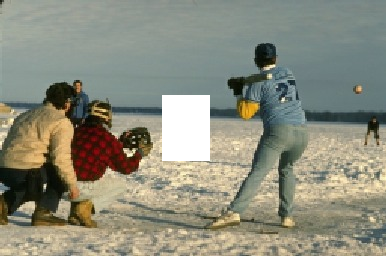
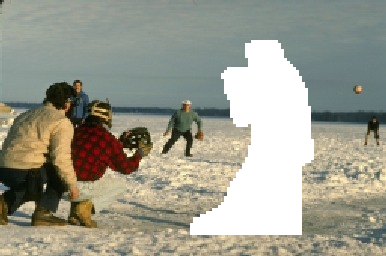
correction confusion set

Changed region(s): [[0.4663, 0.1562, 0.8394, 0.9375], [0.4041, 0.3438, 0.5596, 0.6562]]

diff --git a/main.cpp b/main.cpp
@@ -54,7 +54,7 @@ int main(int argc, char *argv[]) {
         return 0; //here we only want one picture --> test
     }
 
-    int patchSize=15;
+    int patchSize=31;
     int lmin=3;
     int lmax=20;
     int thresholdConfusion =-patchSize*patchSize*600;//à diminuer
@@ -72,7 +72,8 @@ int main(int argc, char *argv[]) {
     std::string maskPath = std::string(argv[1]) + "/mask_baseball.png";
     Image imageMaskTemp=loadImage(maskPath.c_str());
 
-    Image imageMask=imageMaskTemp.simplifyMaskToOnePixel(162,95,210,161);
+    Image imageMask(imageMaskTemp.gray().clone());
+    //Image imageMask=imageMaskTemp.simplifyMaskToOnePixel(162,95,210,161);
 
     if(! save_image(std::string(std::string(argv[1]) + "/imageMask.png").c_str(), imageMask)) {
         std::cerr << "Error writing file " << std::endl;
@@ -100,6 +101,14 @@ int main(int argc, char *argv[]) {
 
 
 
+    Image nodesAndVertices=visualiseNodesAndVertices(imageMask,v,patchSize);
+
+    // Utile pour enregistrer l'image
+    if(! save_image(std::string(std::string(argv[1]) + "/nodesAndVertices.png").c_str(), nodesAndVertices)){
+        std::cerr << "Error writing file " << std::endl;
+        return 1;
+    }
+
 
 
 
@@ -110,6 +119,7 @@ int main(int argc, char *argv[]) {
 
     std::vector<Node> priorities=assignInitialPriority(imageInput,imageExtendedMask,imageMask,
                                                          patchSize,lmin,lmax,thresholdConfusion,thresholdSimilarity);
+
 
 
     Image confusionSet=getConfusionSet(priorities,imageInput,patchSize,lmax);
@@ -168,14 +178,6 @@ int main(int argc, char *argv[]) {
         std::cerr << "Error writing file " << std::endl;
         return 1;
     }
-    Image nodesAndVertices=visualiseNodesAndVertices(imageMask,v,patchSize);
-
-    // Utile pour enregistrer l'image
-    if(! save_image(std::string(std::string(argv[1]) + "/nodes_and_vertices.png").c_str(), nodesAndVertices)){
-        std::cerr << "Error writing file " << std::endl;
-        return 1;
-    }
-
 
 
 

diff --git a/node.cpp b/node.cpp
@@ -889,8 +889,8 @@ Image getConfusionSet(const std::vector<Node>& priorities,const Image& imageInpu
         int y=priorities[i].gety();
         int size=priorities[i].size();
         if (size==0){
-            for (int xp=x-patchSize;xp<=x+patchSize;xp++){
-                for (int yp=y-patchSize;yp<=y+patchSize;yp++){
+            for (int xp=x-patchSize/2;xp<=x+patchSize/2;xp++){
+                for (int yp=y-patchSize/2;yp<=y+patchSize/2;yp++){
                     confusionSet(xp,yp,0)=0;
                     confusionSet(xp,yp,1)=255;
                     confusionSet(xp,yp,2)=0;
@@ -898,9 +898,16 @@ Image getConfusionSet(const std::vector<Node>& priorities,const Image& imageInpu
             }
         }
 
-        else{
-            for (int xp=x-patchSize;xp<=x+patchSize;xp++){
-                for (int yp=y-patchSize;yp<=y+patchSize;yp++){
+    }
+
+    for (size_t i=0;i<priorities.size();i++){
+        int x=priorities[i].getx();
+        int y=priorities[i].gety();
+        int size=priorities[i].size();
+
+        if (size>0){
+            for (int xp=x-patchSize/2;xp<=x+patchSize/2;xp++){
+                for (int yp=y-patchSize/2;yp<=y+patchSize/2;yp++){
                     confusionSet(xp,yp,0)=255-255/lmax*size;
                     confusionSet(xp,yp,1)=0;
                     confusionSet(xp,yp,2)=0;
